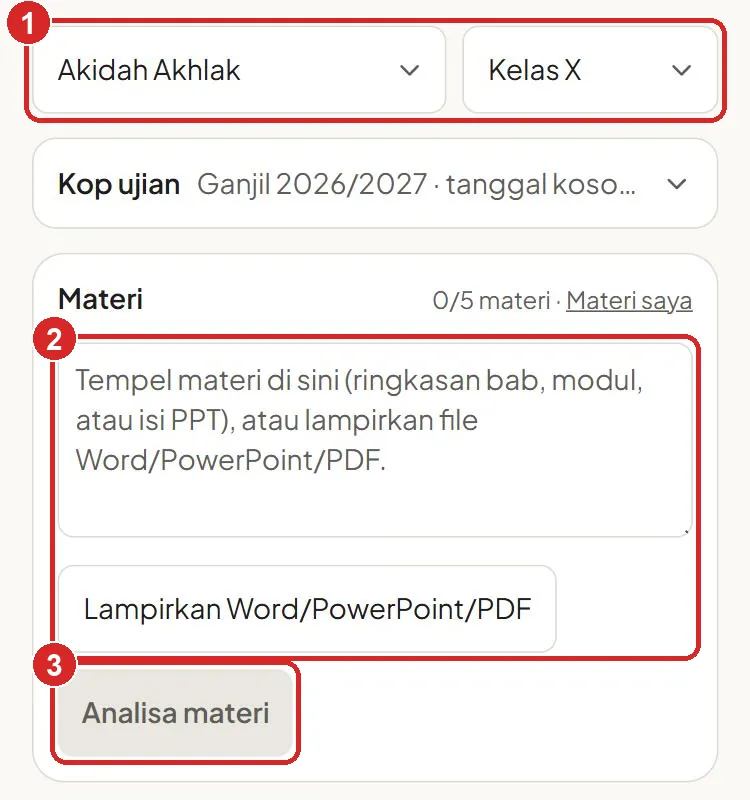
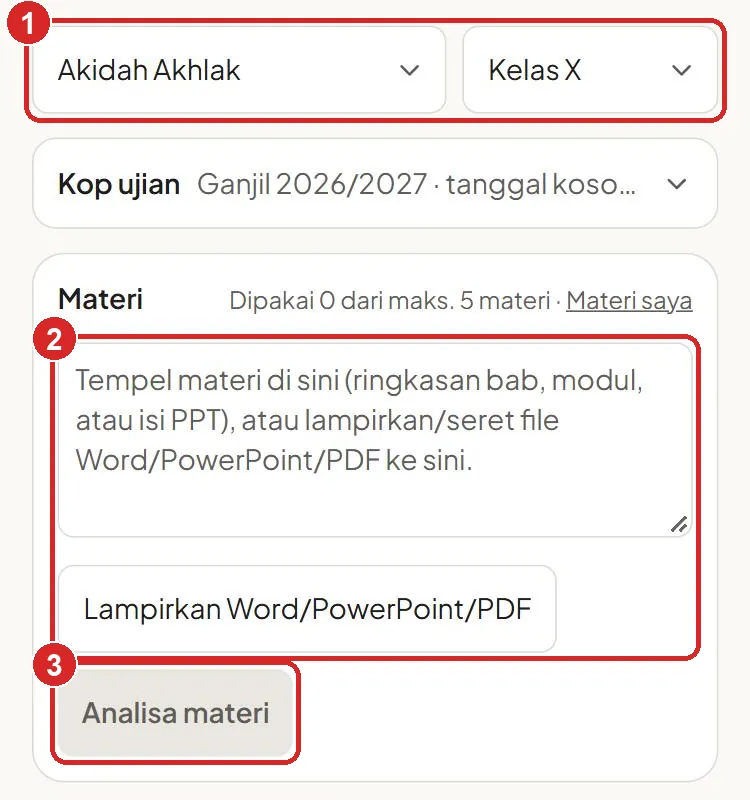
Form Set baru: kartu jenis ujian sejajar & bercentang, kotak Catatan bergaris, seret file ke Materi, draf teks diingat
- Kartu jenis ujian: isi rata atas (dulu ikon/judul naik-turun karena keterangan beda baris), kartu terpilih
  berlatar hijau muda + tanda centang (dulu dua kelas latar bertabrakan, latar hijau tidak tampil)
- Kotak "Catatan untuk AI" diberi garis tepi supaya terlihat sebagai tempat mengetik
- File Word/PowerPoint/PDF bisa diseret ke kotak materi (sama dengan Lampirkan; file lain ditolak dengan pesan)
- "0/5 materi" -> "Dipakai 0 dari maks. 5 materi"
- Teks tempelan yang belum dianalisa disimpan di browser, dihapus setelah materi tersimpan di server
- Gambar Panduan 1 & 3 diambil ulang, kalimat seret file di langkah 1

Changed region(s): [[0.3067, 0.3438, 0.6133, 0.4062], [0.4907, 0.5, 0.736, 0.5938], [0.8893, 0.6562, 0.92, 0.6875]]

diff --git a/src/app/kotak-materi.tsx b/src/app/kotak-materi.tsx
@@ -44,6 +44,9 @@ type FileMateri = { nama: string; paragraf: string[]; gambar: GambarFile[] };
 const huruf = (f: FileMateri) => f.paragraf.join("\n").length;
 const angka = (n: number) => n.toLocaleString("id-ID");
 const BATAS_FILE = 30 * 1024 * 1024;
+const FILE_DITERIMA = /\.(docx|pptx|pdf)$/i;
+/** Teks tempelan yang belum dipakai disimpan di browser (kenyamanan saja), dihapus setelah materinya tersimpan di server. */
+export const DRAF_TEKS = "raciksoal-draf-materi";
 
 /**
  * Materi di halaman utama (pengganti menu Materi saya): tempel teks atau lampirkan Word/PowerPoint/PDF → AI menganalisa
@@ -51,7 +54,27 @@ const BATAS_FILE = 30 * 1024 * 1024;
  * Bisa digabung dengan materi sebelumnya (PTS/PAS). Ayat diambil dari mushaf; hadis wajib dicentang (aturan 5).
  */
 export function KotakMateri({ mapel, kelas, daftar, pilihan, setPilihan, draf, setDraf, gabung = true }: Props) {
-  const [teks, setTeks] = useState("");
+  const [teks, setTeksMentah] = useState("");
+  // Draf teks hanya di halaman Set baru (gabung): tab tertutup sebelum Analisa materi → teks kembali saat dibuka lagi.
+  useEffect(() => {
+    if (!gabung) return;
+    try {
+      setTeksMentah(localStorage.getItem(DRAF_TEKS) ?? "");
+    } catch {
+      // Penyimpanan browser diblokir: mulai kosong.
+    }
+  }, [gabung]);
+  const setTeks = (t: string) => {
+    setTeksMentah(t);
+    if (!gabung) return;
+    try {
+      if (t) localStorage.setItem(DRAF_TEKS, t);
+      else localStorage.removeItem(DRAF_TEKS);
+    } catch {
+      // Penyimpanan browser diblokir/penuh: teks tetap ada di layar, hanya tidak diingat.
+    }
+  };
+  const [seret, setSeret] = useState(false); // file sedang diseret di atas kotak materi
   const [file, setFile] = useState<FileMateri[]>([]); // file yang dilampirkan (urut), bisa dilepas satu per satu
   const [proses, setProses] = useState("");
   const [pesan, setPesan] = useState<{ ok: boolean; teks: string } | null>(null);
@@ -142,10 +165,11 @@ export function KotakMateri({ mapel, kelas, daftar, pilihan, setPilihan, draf, s
     if (catatan) setPesan({ ok: false, teks: catatan });
   }
 
-  async function lampirkan(e: React.ChangeEvent<HTMLInputElement>) {
-    const daftarFile = [...(e.target.files ?? [])];
-    e.target.value = "";
+  /** File dari tombol Lampirkan atau diseret ke kotak materi. */
+  async function lampirkan(daftarFile: File[]) {
     if (!daftarFile.length) return;
+    const asing = daftarFile.find((f) => !FILE_DITERIMA.test(f.name));
+    if (asing) return setPesan({ ok: false, teks: `${asing.name} tidak bisa dibaca. Hanya file Word (.docx), PowerPoint (.pptx), atau PDF.` });
     const besar = daftarFile.find((f) => f.size > BATAS_FILE);
     if (besar) return setPesan({ ok: false, teks: `${besar.name} terlalu besar (maks 30 MB).` });
     setProses("Membaca file...");
@@ -228,7 +252,7 @@ export function KotakMateri({ mapel, kelas, daftar, pilihan, setPilihan, draf, s
         <div className="flex flex-wrap items-center justify-between gap-2">
           <p className="text-sm font-semibold">Materi</p>
           <span className="text-xs text-pudar">
-            {pilihan.length + (draf ? 1 : 0)}/{MAKS_GABUNG} materi · <Link href="/materi" className="underline">Materi saya</Link>
+            Dipakai {pilihan.length + (draf ? 1 : 0)} dari maks. {MAKS_GABUNG} materi · <Link href="/materi" className="underline">Materi saya</Link>
           </span>
         </div>
       )}
@@ -253,13 +277,35 @@ export function KotakMateri({ mapel, kelas, daftar, pilihan, setPilihan, draf, s
         <KartuMateri draf={draf} setDraf={setDraf} calon={calon} ditolak={ditolak} judul="Materi baru (hasil analisa AI, silakan periksa)" batal={() => { setDraf(null); setTeks(""); setFile([]); setTempelan([]); setTerpakai(new Set()); setDitolak(new Set()); setPesan(null); }} />
       ) : (
         !penuh && (
-          <div className="space-y-2">
+          <div
+            className="space-y-2"
+            // Seret-lepas file Word/PowerPoint/PDF ke kotak materi = sama dengan tombol Lampirkan.
+            onDragOver={(e) => {
+              if (!e.dataTransfer.types.includes("Files")) return;
+              e.preventDefault(); // tanpa ini browser membuka file yang dilepas (meninggalkan halaman)
+              if (siap && !proses) setSeret(true);
+            }}
+            onDragLeave={(e) => {
+              if (!e.currentTarget.contains(e.relatedTarget as Node | null)) setSeret(false);
+            }}
+            onDrop={(e) => {
+              if (!e.dataTransfer.files.length) return;
+              e.preventDefault();
+              setSeret(false);
+              if (!siap) setPesan({ ok: false, teks: "Pilih mata pelajaran dan kelas dulu." });
+              else if (!proses) lampirkan([...e.dataTransfer.files]);
+            }}
+          >
             <textarea
               dir="auto"
               rows={4}
-              className={kotak}
+              className={`${kotak} ${seret ? "border-hijau bg-hijau-muda/50 ring-2 ring-hijau" : ""}`}
               aria-label="Tempel materi"
-              placeholder={siap ? "Tempel materi di sini (ringkasan bab, modul, atau isi PPT), atau lampirkan file Word/PowerPoint/PDF." : "Pilih mata pelajaran dan kelas dulu."}
+              placeholder={
+                seret ? "Lepaskan file di sini..." :
+                siap ? "Tempel materi di sini (ringkasan bab, modul, atau isi PPT), atau lampirkan/seret file Word/PowerPoint/PDF ke sini." :
+                "Pilih mata pelajaran dan kelas dulu."
+              }
               disabled={!siap || !!proses}
               value={teks}
               onChange={(e) => setTeks(e.target.value)}
@@ -271,7 +317,11 @@ export function KotakMateri({ mapel, kelas, daftar, pilihan, setPilihan, draf, s
             <div className="flex flex-wrap items-center gap-2">
               <label className={`inline-flex h-8 cursor-pointer items-center rounded-lg border bg-kartu px-3 text-sm hover:bg-krem max-md:min-h-11 focus-within:ring-2 focus-within:ring-hijau ${!siap || proses ? "pointer-events-none opacity-50" : ""}`}>
                 Lampirkan Word/PowerPoint/PDF
-                <input type="file" multiple accept=".docx,.pptx,.pdf" className="sr-only" disabled={!siap || !!proses} onChange={lampirkan} />
+                <input type="file" multiple accept=".docx,.pptx,.pdf" className="sr-only" disabled={!siap || !!proses} onChange={(e) => {
+                  const f = [...(e.target.files ?? [])];
+                  e.target.value = "";
+                  lampirkan(f);
+                }} />
               </label>
               <button className="h-8 rounded-lg bg-hijau px-3 text-sm font-semibold text-white disabled:opacity-40 max-md:min-h-11" disabled={!siap || !!proses || (!teks.trim() && !file.length)} onClick={() => analisa()}>
                 Analisa materi

diff --git a/src/app/buat-soal.tsx b/src/app/buat-soal.tsx
@@ -4,7 +4,7 @@ import { useEffect, useRef, useState } from "react";
 import { ambilDaftarBab, ambilDaftarModel, ambilJatah, cekHasil, mulaiBuatSoal, ubahIdentitas } from "./actions";
 import { simpanMateri } from "./materi/actions";
 import { KartuSoal, Teks, TeksPeringatan, TulisSoalSendiri } from "./kartu-soal";
-import { KotakMateri, PilihMapel, type MateriLama } from "./kotak-materi";
+import { DRAF_TEKS, KotakMateri, PilihMapel, type MateriLama } from "./kotak-materi";
 import { FormIdentitas, ringkasIdentitas } from "./form-identitas";
 import { StepAngka } from "./step-angka";
 import { Panah } from "./panah";
@@ -207,6 +207,11 @@ export function BuatSoal({ sapaan, awalId, awalMateri, bawaan }: { sapaan: strin
     if (!draf) return pilihan;
     const r = await simpanMateri(null, { ...draf, mapel, kelas }).catch(() => ({ ok: false as const, pesan: "Koneksi terputus. Coba lagi." }));
     if (!r.ok) return r.pesan;
+    try {
+      localStorage.removeItem(DRAF_TEKS); // materi sudah tersimpan di server: draf teks tempelan tidak perlu lagi
+    } catch {
+      // Penyimpanan browser diblokir: tidak ada draf untuk dihapus.
+    }
     const id = `materi-${r.id}`;
     setDraf(null);
     setPilihan([...pilihan, id]); // supaya tidak tersimpan dua kali kalau pembuatan soal diulang
@@ -354,8 +359,15 @@ export function BuatSoal({ sapaan, awalId, awalMateri, bawaan }: { sapaan: strin
                       ...(asas ? { jumlah: { ...asas.jumlah } } : j.tujuan === TKA ? { jumlah: JUMLAH_TKA } : p.tujuan === TKA ? { jumlah: JUMLAH_AWAL } : {}),
                     });
                   }}
-                  className={`rounded-xl border bg-kartu p-3 text-left hover:border-pudar/40 ${pilih ? "border-hijau bg-hijau-muda/50 ring-1 ring-hijau" : ""}`}
+                  // flex-col justify-start: isi tombol rata atas (bawaan tombol = tengah, membuat ikon & judul naik-turun
+                  // bila keterangan kartu beda jumlah baris). Latar kartu dipilih salah satu saja (dua kelas bg- bertabrakan).
+                  className={`relative flex flex-col justify-start rounded-xl border p-3 text-left ${pilih ? "border-hijau bg-hijau-muda/50 ring-1 ring-hijau" : "bg-kartu hover:border-pudar/40"}`}
                 >
+                  {pilih && (
+                    <svg className="absolute right-2 top-2 h-5 w-5 text-hijau" viewBox="0 0 24 24" fill="currentColor" aria-hidden>
+                      <path d="M12 2a10 10 0 1 0 0 20 10 10 0 0 0 0-20zm-1.2 14.2-4-4 1.4-1.4 2.6 2.6 5.6-5.6 1.4 1.4-7 7z" />
+                    </svg>
+                  )}
                   <span className="mb-2 flex h-8 w-8 items-center justify-center rounded-lg bg-hijau-muda text-hijau-teks">{j.ikon}</span>
                   <span className="block text-sm font-semibold">{namaTujuan(j.tujuan, mapel)}</span>
                   <span className="mt-0.5 block text-xs leading-snug text-pudar">
@@ -397,7 +409,8 @@ export function BuatSoal({ sapaan, awalId, awalMateri, bawaan }: { sapaan: strin
           <div className="rounded-2xl border bg-kartu p-3 shadow-sm focus-within:border-hijau focus-within:ring-2 focus-within:ring-hijau">
             {/* Kotak opsional: huruf seukuran isian lain supaya tidak lebih menonjol dari langkah wajib (audit tampilan 2026-11-08). */}
             <textarea
-              className="w-full resize-none p-1 text-sm outline-none"
+              // Garis tepi tipis: tanpa itu kalimat contoh terbaca seperti tulisan biasa, bukan tempat mengetik.
+              className="mb-2 w-full resize-none rounded-lg border p-2 text-sm outline-none focus:border-hijau"
               rows={2}
               maxLength={MAKS_CATATAN}
               aria-label="Catatan untuk AI (opsional)"

diff --git a/src/app/panduan/page.tsx b/src/app/panduan/page.tsx
@@ -43,7 +43,7 @@ const LANGKAH: { judul: string; isi: React.ReactNode; gambar: React.ReactNode[] 
     isi: (
       <>
         <p>Klik <b>Set baru</b>. Pilih <b>mata pelajaran</b> dan <b>kelas</b>&nbsp;<N n={1} />.</p>
-        <p>Tempel teks materi, atau tekan <b>Lampirkan Word/PowerPoint/PDF</b>&nbsp;<N n={2} />. Lalu tekan <b>Analisa materi</b>&nbsp;<N n={3} />.</p>
+        <p>Tempel teks materi, atau tekan <b>Lampirkan Word/PowerPoint/PDF</b>&nbsp;<N n={2} /> (di laptop, file juga bisa diseret ke kotak materi). Lalu tekan <b>Analisa materi</b>&nbsp;<N n={3} />.</p>
       </>
     ),
     gambar: [<Gambar key="1" nama="1-mapel-materi" alt="Pilihan mata pelajaran dan kelas, kotak materi, tombol Lampirkan dan Analisa materi" lebar={750} tinggi={800} />],
@@ -66,7 +66,7 @@ const LANGKAH: { judul: string; isi: React.ReactNode; gambar: React.ReactNode[] 
         <p>Tekan <b>Buat soal</b>&nbsp;<N n={3} />. Biasanya 1–3 menit; soal muncul bertahap. Halaman boleh ditinggal, set tersimpan di riwayat.</p>
       </>
     ),
-    gambar: [<Gambar key="3" nama="3-jenis-buat" alt="Kartu jenis ujian, tombol jumlah soal, dan tombol Buat soal" lebar={750} tinggi={1354} />],
+    gambar: [<Gambar key="3" nama="3-jenis-buat" alt="Kartu jenis ujian, tombol jumlah soal, dan tombol Buat soal" lebar={469} tinggi={868} />],
   },
   {
     judul: "Periksa soal, lalu Unduh",

diff --git a/CLAUDE.md b/CLAUDE.md
@@ -128,6 +128,8 @@ Hosting: DomaiNesia paket Nimbus Go (shared hosting, cPanel).
   bernomor; nomor `<N>` di teks = nomor tanda), topik & tanya-jawab dalam `<details>` (`BukaLipatan` membuka lipatan dari
   `#id`). Tombol/tampilan berubah → perbarui teks DAN ambil ulang gambarnya: foto HP 375 px di preview (akun guru.uji.b,
   sembunyikan `nextjs-portal`), koordinat CSS di `scripts/panduan-gambar.json`, lalu `scripts/panduan-tandai.py`.
+- **Form Set baru**: file bisa diseret ke kotak materi (sama dengan Lampirkan). Teks tempelan yang belum dipakai disimpan
+  di localStorage `raciksoal-draf-materi` (`DRAF_TEKS`, hanya halaman Set baru), dihapus setelah materinya tersimpan di server.
 - **Set**: hapus = hapus lunak (`dihapus`, tetap dihitung jatah); ganti nama & hapus lewat menu ⋯ riwayat sidebar.
   Paket A–D diacak bersemi (`susunPaket`), tanpa tabel baru. Set menyimpan salinan bab (`hasil_soal.bab`).
 - **Tabel** (0.28.0): ditulis di TEKS soal/wacana/pembahasan sebagai baris `| a | b |` (bukan kolom data baru), dikenali
